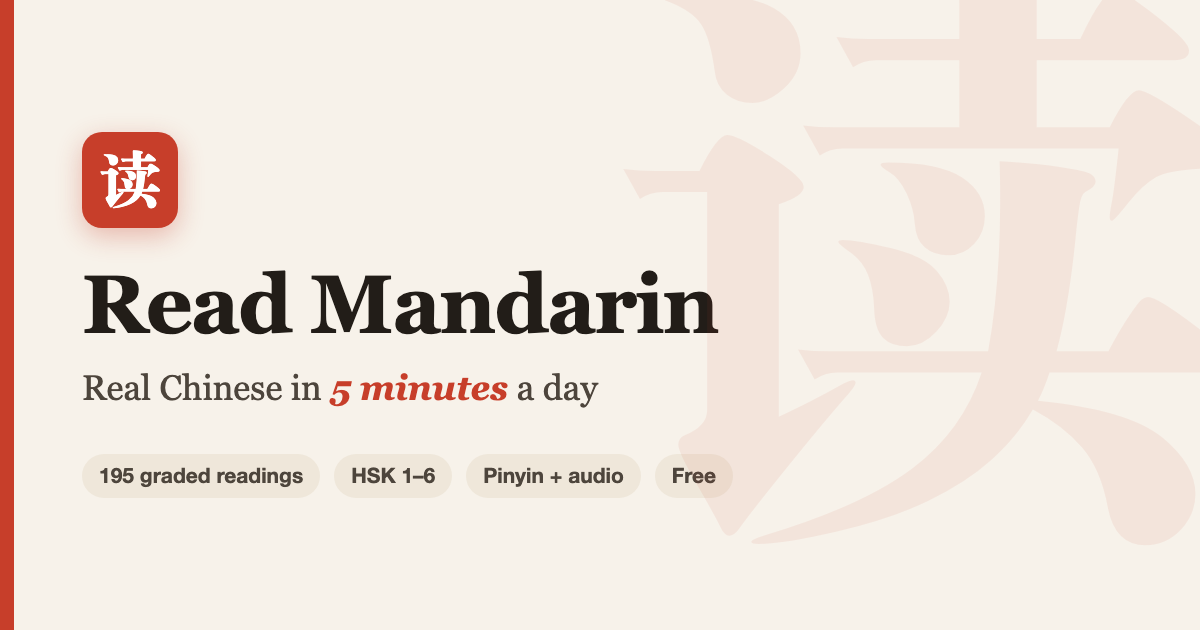
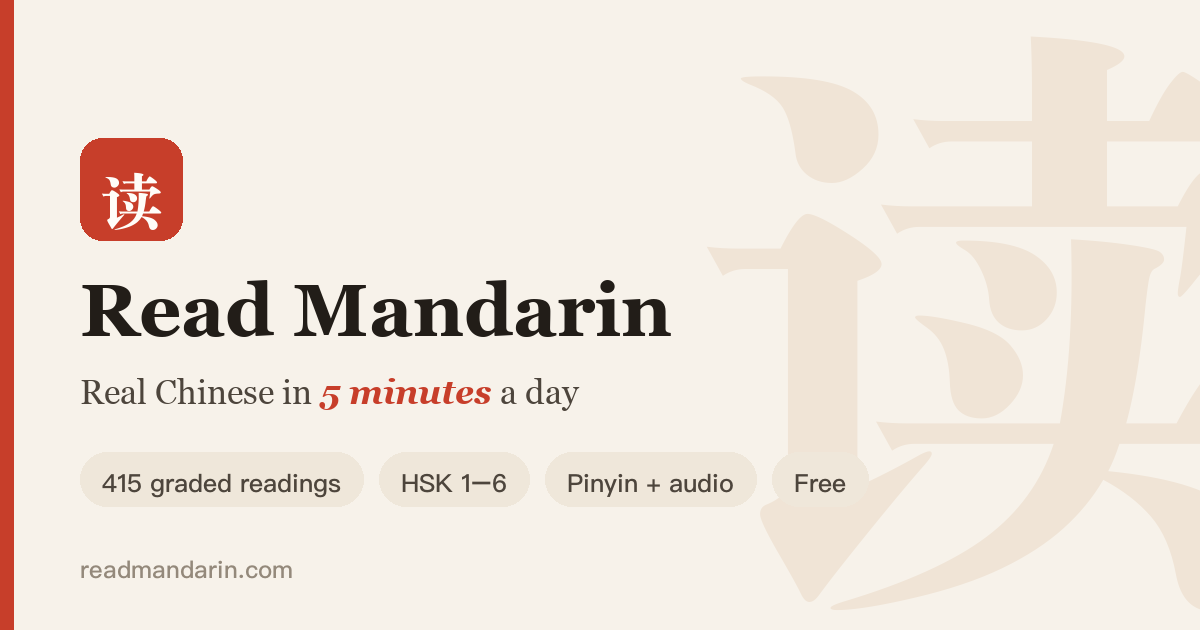
og-cover 改成脚本生成:篇数自动,不再印着早就过期的 195
分享封面(FB/X/Pinterest/搜索结果都吃这张)是很久以前手工做的,篇数写死在
图里 —— 站上已经 415 篇,图上还印着 "195 graded readings",等于每次分享
都在少报一半内容。

gen_og.py 复刻原来的版式(纸色底 + 红书脊 + 读字水印 + 四个事实 chip),
篇数从 content/texts/ 现数。以后加完课文跑一次 `python3 gen_og.py` 再 build。

diff --git a/gen_og.py b/gen_og.py
@@ -1,0 +1,86 @@
+#!/usr/bin/env python3
+"""重新生成 assets/og-cover.png —— 全站的分享封面(FB/X/Pinterest/搜索结果都吃它)。
+
+    python3 gen_og.py        # 数字自动从 content/texts/ 数,不用手改
+
+上一版是手工做的,篇数写死在图里,涨到 415 篇了图上还印着 195 —— 每次分享
+都在少报一半内容。以后加完课文跑一次这个脚本再 build 就行。
+"""
+import glob
+import json
+import os
+
+from PIL import Image, ImageDraw, ImageFont
+
+W, H = 1200, 630
+PAPER, INK, INK2 = "#f7f2ea", "#221d18", "#4d453c"
+RED, CHIP = "#c73e2a", "#efe7da"
+OUT = "assets/og-cover.png"
+
+SERIF = "/System/Library/Fonts/Supplemental/Georgia.ttf"
+SERIF_B = "/System/Library/Fonts/Supplemental/Georgia Bold.ttf"
+SERIF_BI = "/System/Library/Fonts/Supplemental/Georgia Bold Italic.ttf"
+SONG = "/System/Library/Fonts/Supplemental/Songti.ttc"   # index 0 = Songti SC Black
+SANS = "/System/Library/Fonts/PingFang.ttc"
+
+
+def font(path, size, index=0):
+    return ImageFont.truetype(path, size, index=index)
+
+
+def text_w(d, s, f):
+    return d.textbbox((0, 0), s, font=f)[2]
+
+
+def build(n_texts):
+    im = Image.new("RGB", (W, H), PAPER)
+    d = ImageDraw.Draw(im)
+
+    # 右侧巨大的"读"水印,延续站内 hero / 海报的视觉语言
+    wm = font(SONG, 620)
+    d.text((690, -110), "读", font=wm, fill="#f0e4d6")
+
+    # 左边一条红色书脊
+    d.rectangle([(0, 0), (13, H)], fill=RED)
+
+    # logo 方块
+    d.rounded_rectangle([(80, 138), (182, 240)], radius=22, fill=RED)
+    lf = font(SONG, 62)
+    lw = text_w(d, "读", lf)
+    d.text((131 - lw // 2, 158), "读", font=lf, fill="#fffdf9")
+
+    # 站名 + 一句话
+    d.text((80, 268), "Read Mandarin", font=font(SERIF_B, 74), fill=INK)
+
+    y = 372
+    a = font(SERIF, 34)
+    b = font(SERIF_BI, 34)
+    x = 80
+    for s, f, fill in (("Real Chinese in ", a, INK2), ("5 minutes", b, RED),
+                       (" a day", a, INK2)):
+        d.text((x, y), s, font=f, fill=fill)
+        x += text_w(d, s, f)
+
+    # 事实 chip —— 篇数自动
+    chips = [f"{n_texts} graded readings", "HSK 1–6", "Pinyin + audio", "Free"]
+    cf = font(SANS, 25, index=4)
+    x, y = 80, 452
+    for c in chips:
+        w = text_w(d, c, cf)
+        d.rounded_rectangle([(x, y), (x + w + 44, y + 54)], radius=27, fill=CHIP)
+        d.text((x + 22, y + 13), c, font=cf, fill=INK2)
+        x += w + 44 + 16
+
+    d.text((80, 552), "readmandarin.com", font=font(SANS, 24, index=4), fill="#94897b")
+
+    os.makedirs(os.path.dirname(OUT), exist_ok=True)
+    im.save(OUT)
+    print(f"{OUT} <- {n_texts} readings")
+
+
+if __name__ == "__main__":
+    n = len(glob.glob("content/texts/*.json"))
+    # 顺手确认 JSON 都读得动,免得把坏数据数进去
+    for p in glob.glob("content/texts/*.json"):
+        json.load(open(p, encoding="utf-8"))
+    build(n)
